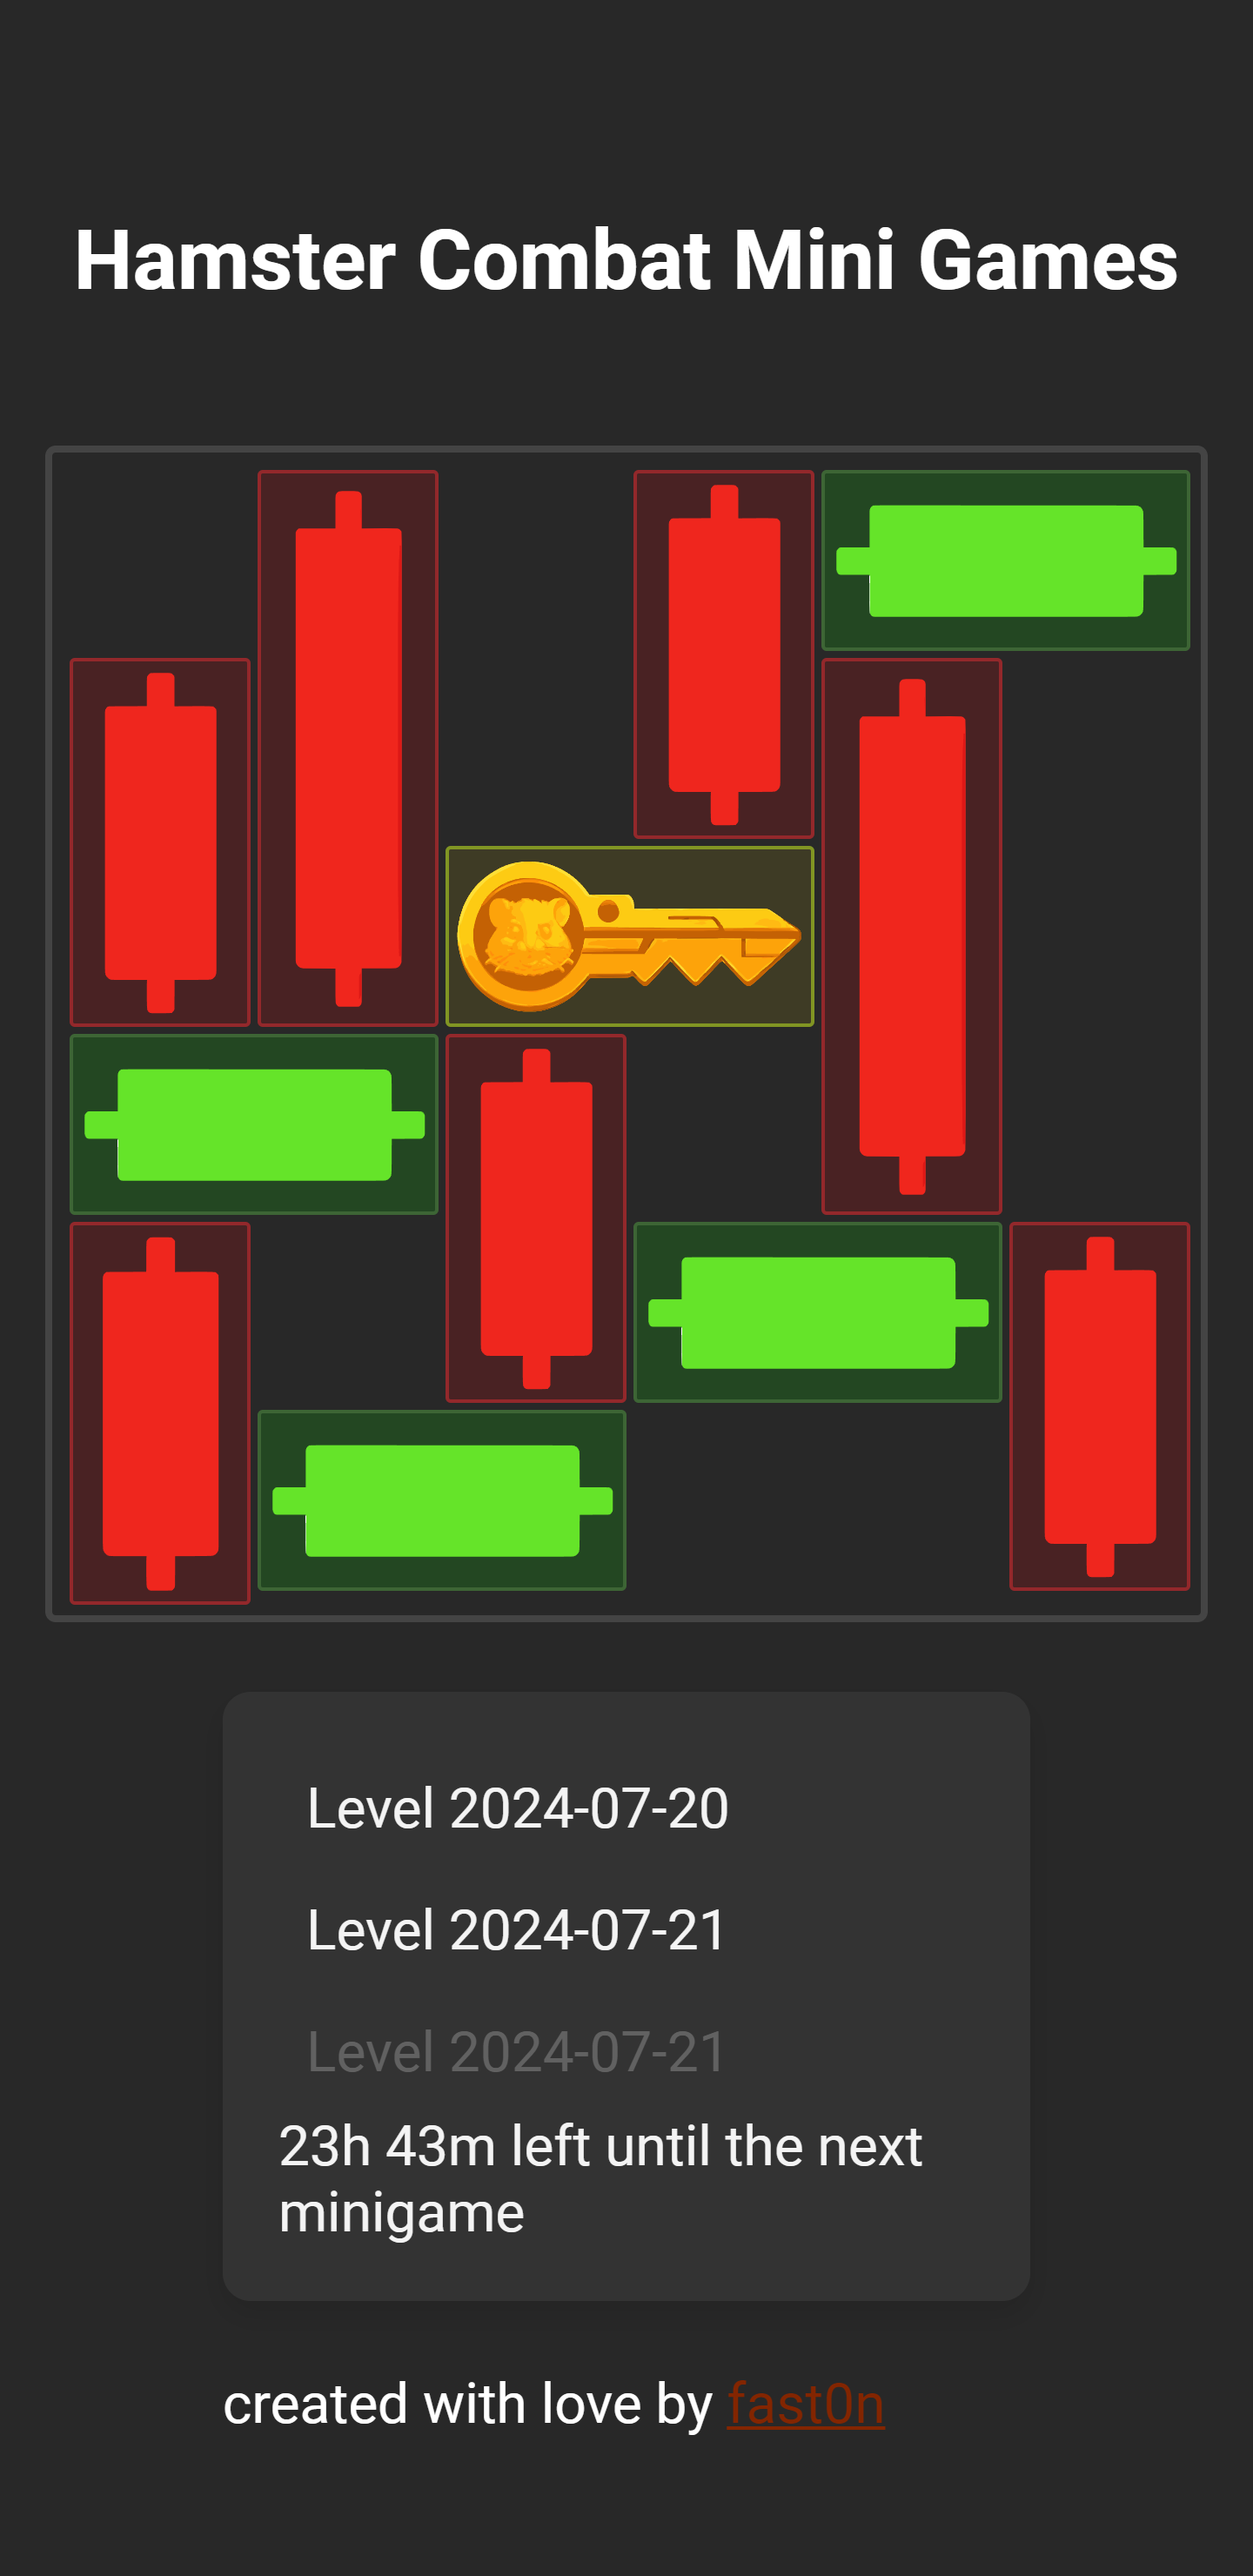
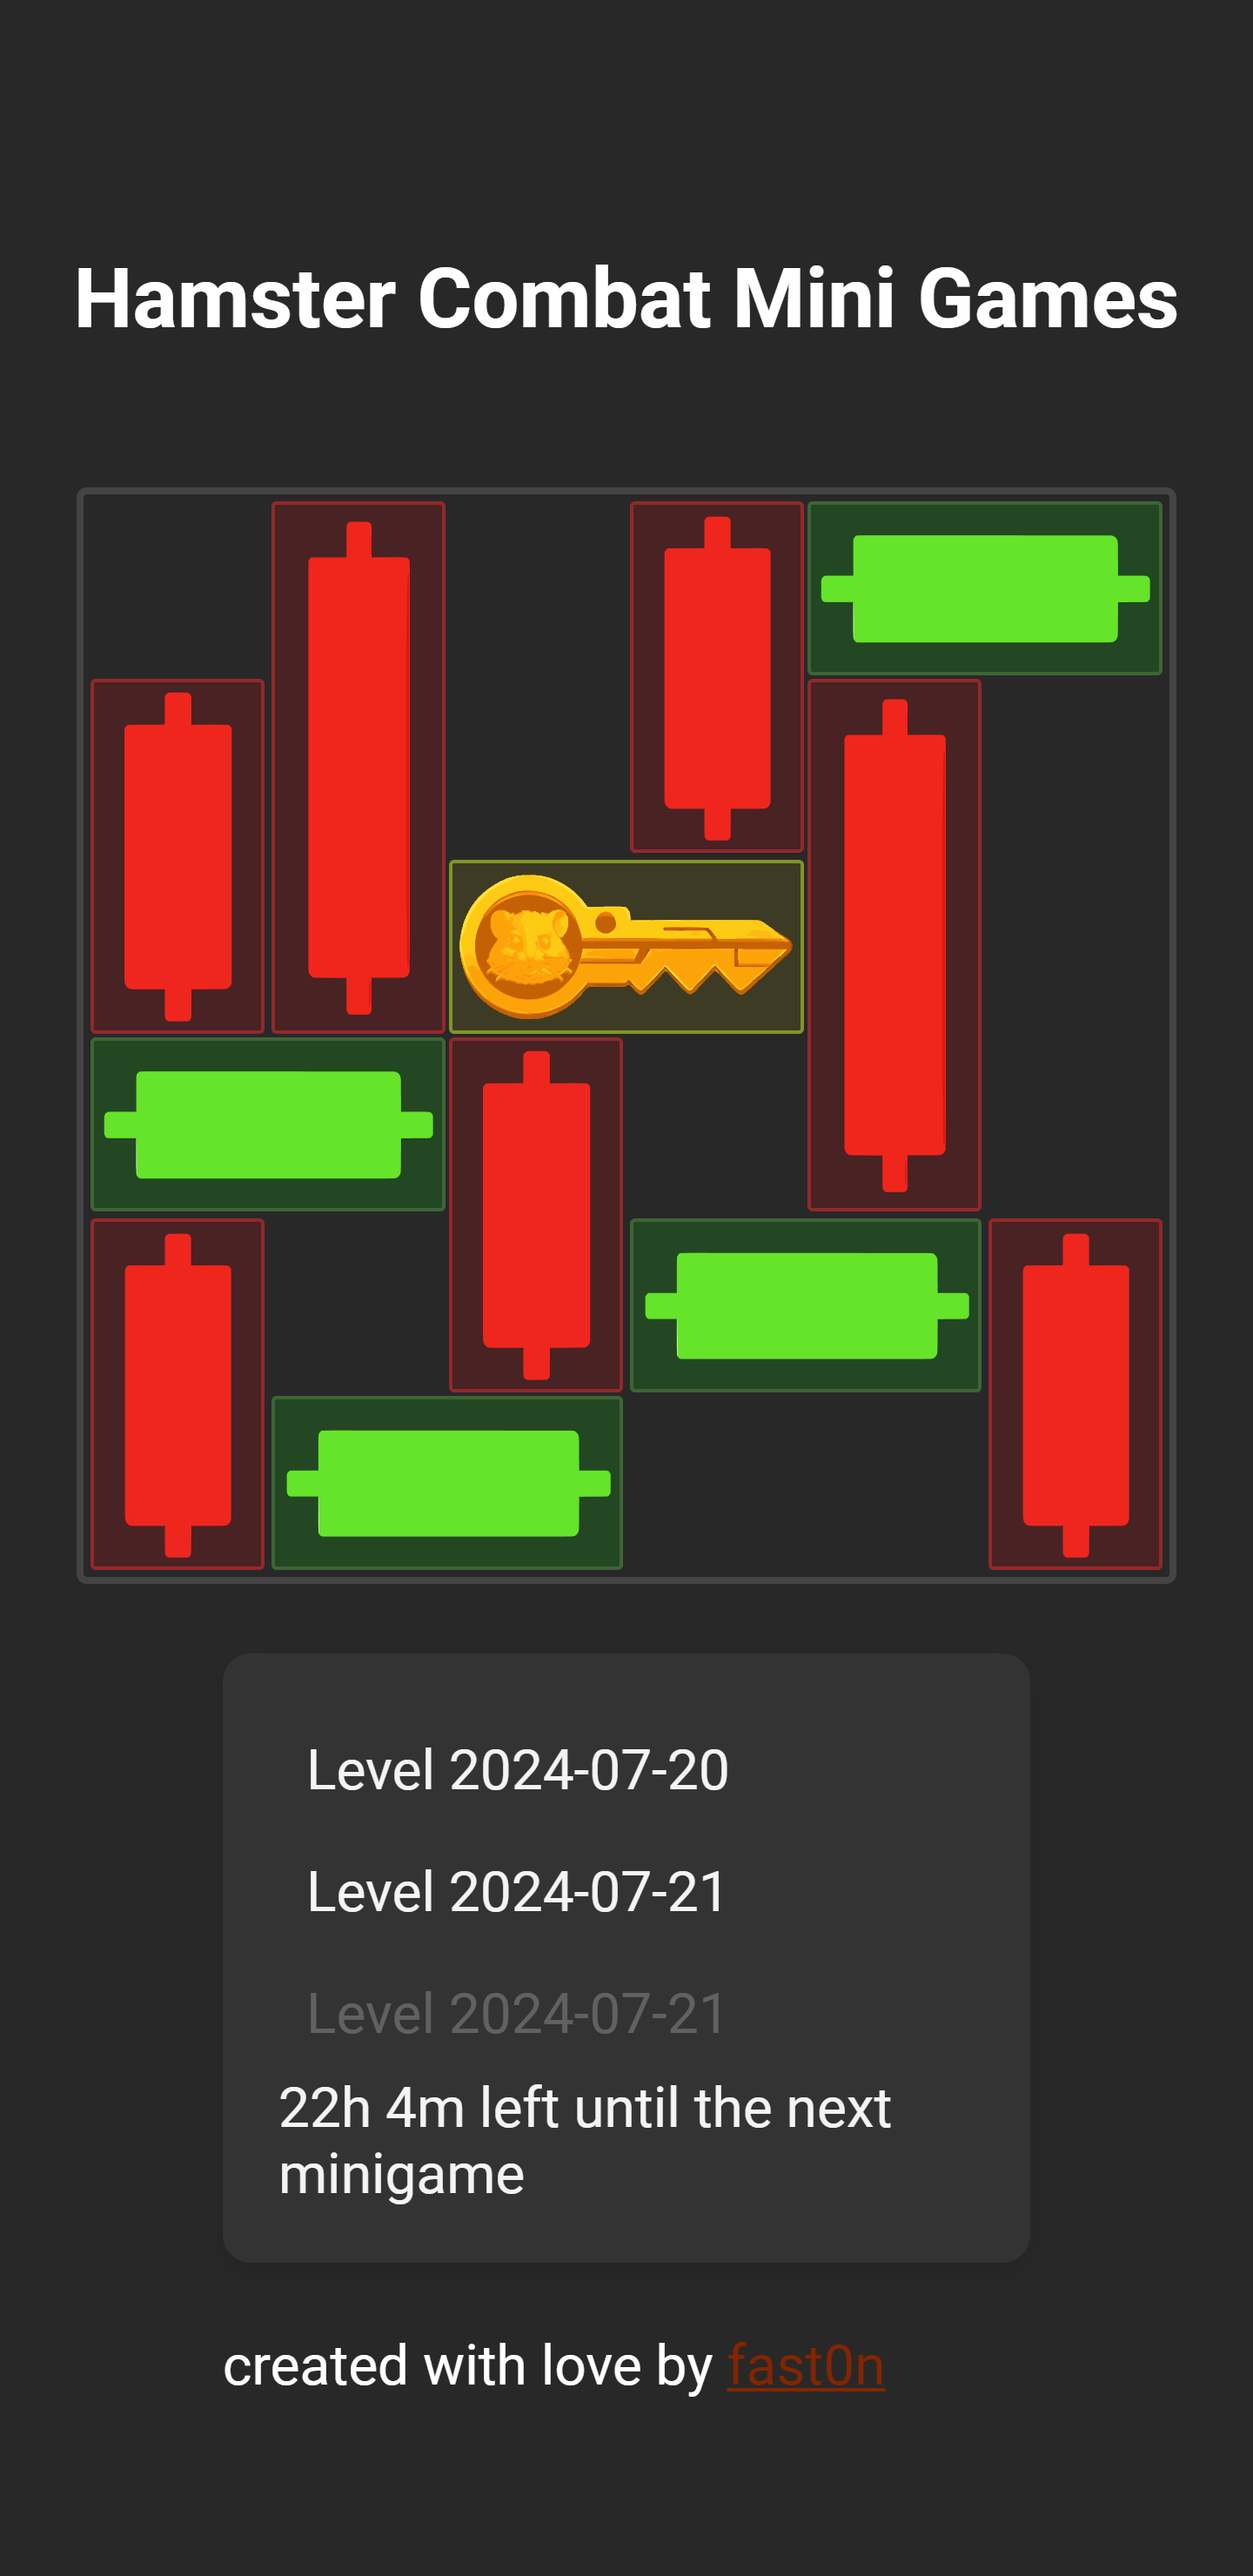
fixed common bug

diff --git a/index.html b/index.html
@@ -32,11 +32,11 @@
     <footer>
         <nav>
             <ul id="levelList">
-                <li data-level="20240719" >Level 2024-07-20</li>
-                <li data-level="20240720" >Level 2024-07-21</li>
-                <li data-level="20240721" class="disabled">Level 2024-07-21</li>
+                <li data-level="20240720" >Level 2024-07-20</li>
+                <li data-level="20240721" >Level 2024-07-21</li>
+                <li data-level="20240722" class="disabled">Level 2024-07-22</li>
+                <br>
                 <div class="countdown" id="countdown"></div>
-                <!-- Aggiungi altri livelli qui se necessario -->
             </ul>
         </nav>
         created with love by <a href="https://github.com/fast0n" target="_blank">fast0n</a>

diff --git a/styles.css b/styles.css
@@ -91,6 +91,7 @@ nav ul li:hover {
     cursor: grabbing;
 }
 
+
 .red {
     background-image: url('assets/red2.svg');
     background-size: cover;
@@ -100,6 +101,13 @@ nav ul li:hover {
     border-radius: 1.5px;
 
     
+}
+
+.arrow {
+    background-image: url('assets/arrow.svg');
+    background-size: cover;
+    background-position: center;
+    border-radius: 1.5px;
 }
 
 .red3 {
